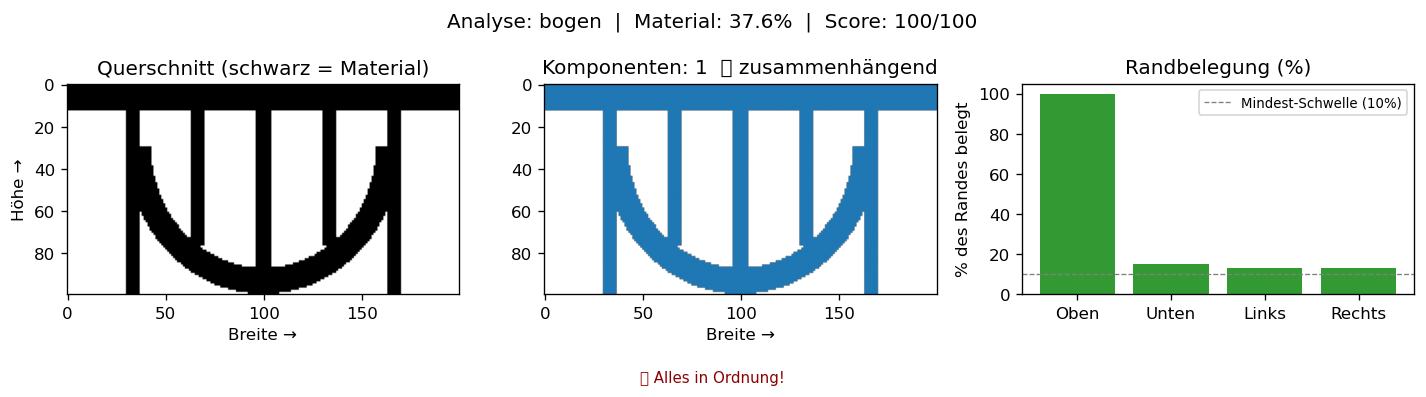
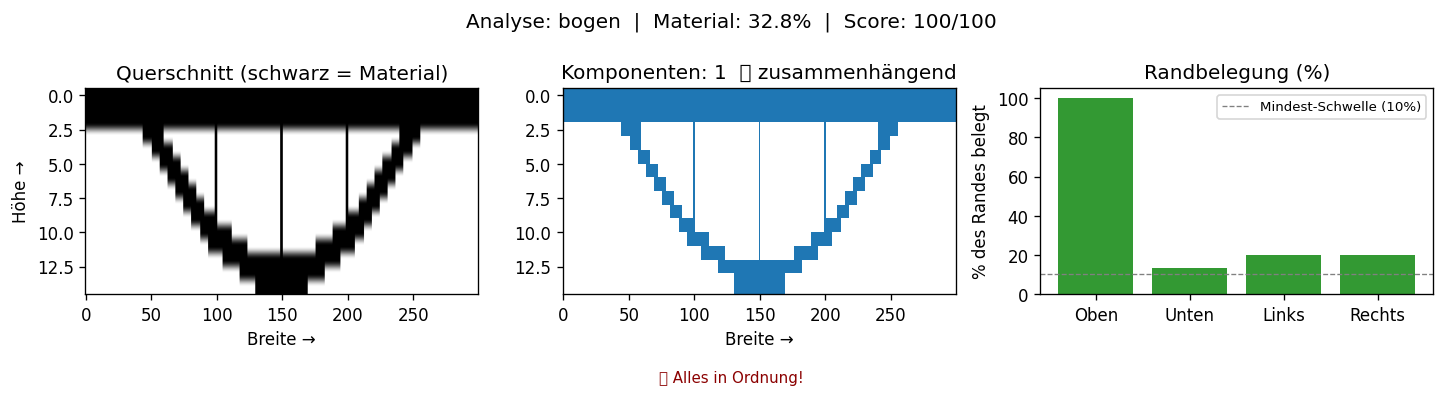
use absolute paths and adjust cross-section dimensions to match assignment

diff --git a/project_2/experimenting/generate_svgs.py b/project_2/experimenting/generate_svgs.py
@@ -15,17 +15,17 @@ import numpy as np
 import os
 
 # === Brückenparameter (müssen mit Simulation übereinstimmen) ===
-B = 40.0    # Breite des Querschnitts [mm]
-H = 20.0    # Höhe des Querschnitts [mm]
-L = 200.0   # Länge der Brücke [mm]
+L = 50.0    # Breite des Querschnitts [mm]
+H = 15.0    # Höhe des Querschnitts [mm]
+L = 300.0   # Länge der Brücke [mm]
 
 # === SVG Auflösung ===
-SVG_W = 400   # Pixel
-SVG_H = 200   # Pixel
-scale_x = SVG_W / B
+SVG_W = 300   # Pixel
+SVG_H = 15   # Pixel # hier die werte auf die im arbeitsauftrag geändert
+scale_x = SVG_W / L # geändert von B zu L 
 scale_y = SVG_H / H
 
-OUTPUT_DIR = "bridge_svgs"
+OUTPUT_DIR = os.path.join(os.path.dirname(os.path.abspath(__file__)), "bridge_svgs") # change to fit curent directory of this .py file
 os.makedirs(OUTPUT_DIR, exist_ok=True)
 
 
@@ -35,7 +35,7 @@ def svg_header(name):
         f'width="{SVG_W}" height="{SVG_H}" '
         f'viewBox="0 0 {SVG_W} {SVG_H}">\n'
         f'  <!-- {name} -->\n'
-        f'  <!-- B={B}mm H={H}mm L={L}mm -->\n'
+        f'  <!-- B={L}mm H={H}mm L={L}mm -->\n'
         f'  <rect width="{SVG_W}" height="{SVG_H}" fill="white"/>\n'
     )
 
@@ -67,7 +67,7 @@ def circle_fill(cx_mm, cy_mm, r_mm, color="white"):
 
 
 def material_ratio(filled_area_mm2):
-    total = B * H
+    total = L * H
     return filled_area_mm2 / total
 
 
@@ -76,9 +76,9 @@ def material_ratio(filled_area_mm2):
 # ============================================================
 def gen_solid():
     name = "vollrechteck"
-    area = B * H
+    area = L * H
     svg = svg_header("Vollrechteck")
-    svg += rect(0, 0, B, H)
+    svg += rect(0, 0, L, H)
     svg += svg_footer()
     with open(f"{OUTPUT_DIR}/{name}.svg", "w") as f:
         f.write(svg)
@@ -93,14 +93,14 @@ def gen_i_beam(flange_h=3.0, web_t=4.0):
     fh = flange_h
     wt = web_t
     wh = H - 2 * fh
-    wx = (B - wt) / 2
+    wx = (L - wt) / 2
 
-    area = 2 * (B * fh) + wt * wh
+    area = 2 * (L * fh) + wt * wh
 
     svg = svg_header("I-Traeger")
-    svg += rect(0, 0, B, fh)               # oberer Flansch
+    svg += rect(0, 0, L, fh)               # oberer Flansch
     svg += rect(wx, fh, wt, wh)            # Steg
-    svg += rect(0, H - fh, B, fh)         # unterer Flansch
+    svg += rect(0, H - fh, L, fh)         # unterer Flansch
     svg += svg_footer()
     with open(f"{OUTPUT_DIR}/{name}.svg", "w") as f:
         f.write(svg)
@@ -113,12 +113,12 @@ def gen_i_beam(flange_h=3.0, web_t=4.0):
 def gen_hollow_rect(t_wall=2.5):
     name = "hohlrechteck"
     t = t_wall
-    inner_w = B - 2 * t
+    inner_w = L - 2 * t
     inner_h = H - 2 * t
-    area = B * H - inner_w * inner_h
+    area = L * H - inner_w * inner_h
 
     svg = svg_header("Hohlrechteck")
-    svg += rect(0, 0, B, H)
+    svg += rect(0, 0, L, H)
     svg += rect(t, t, inner_w, inner_h, color="white")
     svg += svg_footer()
     with open(f"{OUTPUT_DIR}/{name}.svg", "w") as f:
@@ -135,18 +135,18 @@ def gen_grid(n_ribs=4, rib_t=2.0, flange_h=2.5):
     wh = H - 2 * fh
     rt = rib_t
 
-    area = 2 * (B * fh)
+    area = 2 * (L * fh)
     # Seitenwände
     area += 2 * (rt * wh)
     # Innere Rippen
-    inner_spacing = (B - 2 * rt) / (n_ribs + 1)
+    inner_spacing = (L - 2 * rt) / (n_ribs + 1)
     area += n_ribs * (rt * wh)
 
     svg = svg_header("Gitter mit Rippen")
-    svg += rect(0, 0, B, fh)           # oben
-    svg += rect(0, H - fh, B, fh)     # unten
+    svg += rect(0, 0, L, fh)           # oben
+    svg += rect(0, H - fh, L, fh)     # unten
     svg += rect(0, fh, rt, wh)        # links
-    svg += rect(B - rt, fh, rt, wh)   # rechts
+    svg += rect(L - rt, fh, rt, wh)   # rechts
     for i in range(n_ribs):
         x = rt + (i + 1) * inner_spacing - rt / 2
         svg += rect(x, fh, rt, wh)
@@ -164,13 +164,13 @@ def gen_double_t(flange_h=4.0, web_t=8.0):
     fh = flange_h
     wt = web_t
     wh = H - 2 * fh
-    wx = (B - wt) / 2
-    area = 2 * (B * fh) + wt * wh
+    wx = (L - wt) / 2
+    area = 2 * (L * fh) + wt * wh
 
     svg = svg_header("Doppel-T-Traeger")
-    svg += rect(0, 0, B, fh)
+    svg += rect(0, 0, L, fh)
     svg += rect(wx, fh, wt, wh)
-    svg += rect(0, H - fh, B, fh)
+    svg += rect(0, H - fh, L, fh)
     svg += svg_footer()
     with open(f"{OUTPUT_DIR}/{name}.svg", "w") as f:
         f.write(svg)
@@ -185,11 +185,11 @@ def gen_honeycomb(n_cells=4, wall_t=2.0, flange_h=2.5):
     fh = flange_h
     wh = H - 2 * fh
     n = n_cells
-    cell_w = (B) / n
+    cell_w = (L) / n
 
     svg = svg_header("Honigwaben-Gitter")
-    svg += rect(0, 0, B, fh)
-    svg += rect(0, H - fh, B, fh)
+    svg += rect(0, 0, L, fh)
+    svg += rect(0, H - fh, L, fh)
 
     # Diagonale Streben (X-Muster in jedem Zell-Abschnitt)
     for i in range(n):
@@ -207,7 +207,7 @@ def gen_honeycomb(n_cells=4, wall_t=2.0, flange_h=2.5):
     with open(f"{OUTPUT_DIR}/{name}.svg", "w") as f:
         f.write(svg)
 
-    area_approx = 2 * (B * fh) + n * 2 * (wall_t * np.sqrt((B/n)**2 + wh**2))
+    area_approx = 2 * (L * fh) + n * 2 * (wall_t * np.sqrt((L/n)**2 + wh**2))
     print(f"[{name}] Materialanteil (ca.): {material_ratio(area_approx)*100:.1f}%  Fläche: {area_approx:.1f} mm²")
 
 
@@ -222,15 +222,15 @@ def gen_arch(flange_h=2.5, arch_t=2.5, n_hangers=5):
     n_pts = 40
     angle = np.linspace(np.pi, 0, n_pts)
     # Bogen sitzt unter der Brücke, Radius so dass er exakt H hoch ist
-    r = (B**2 / 8 + H**2 / 2) / (2 * (H - fh))  # Kreisbogen-Radius
-    cx = B / 2
+    r = (L**2 / 8 + H**2 / 2) / (2 * (H - fh))  # Kreisbogen-Radius
+    cx = L / 2
     cy_arc = H - fh - r  # Mittelpunkt des Kreises (kann negativ sein = über dem Querschnitt)
 
     # Oberer Flansch
-    area = B * fh
+    area = L * fh
 
     svg = svg_header("Bogenprofil")
-    svg += rect(0, 0, B, fh)  # oberer Flansch
+    svg += rect(0, 0, L, fh)  # oberer Flansch
 
     # Unterer Bogen als dicke Linie approximiert
     arc_inner = []
@@ -247,13 +247,13 @@ def gen_arch(flange_h=2.5, arch_t=2.5, n_hangers=5):
 
     all_pts = arc_inner + arc_outer
     # Clip to [0, B] x [0, H]
-    all_pts_clipped = [(max(0, min(B, x)), max(0, min(H, y))) for x, y in all_pts]
+    all_pts_clipped = [(max(0, min(L, x)), max(0, min(H, y))) for x, y in all_pts]
     svg += poly(all_pts_clipped)
 
     # Hänger (vertical bars)
     hanger_w = 1.5
     for i in range(n_hangers):
-        x = B / (n_hangers + 1) * (i + 1)
+        x = L / (n_hangers + 1) * (i + 1)
         # y-Koordinate des Bogens an Position x
         dx = x - cx
         if abs(dx) <= r:
@@ -274,7 +274,7 @@ def gen_arch(flange_h=2.5, arch_t=2.5, n_hangers=5):
 # Alle generieren
 # ============================================================
 if __name__ == "__main__":
-    print(f"Brückenparameter: B={B}mm, H={H}mm, L={L}mm")
+    print(f"Brückenparameter: B={L}mm, H={H}mm, L={L}mm")
     print(f"Grenzlast: 3kg = {3*9.81:.1f}N, max. Durchbiegung: 3mm")
     print(f"SVG Auflösung: {SVG_W}x{SVG_H}px\n")
     print("Generiere Profile...")

diff --git a/project_2/experimenting/analyze_svg.py b/project_2/experimenting/analyze_svg.py
@@ -17,8 +17,8 @@ import sys
 import os
 
 # Auflösung für die Rasterisierung
-RASTER_W = 200
-RASTER_H = 100
+RASTER_W = 300
+RASTER_H = 15
 THRESHOLD = 128  # Grauwertschwelle: < 128 = Material (dunkel)
 
 
@@ -284,7 +284,8 @@ def visualize_analysis(svg_path: str, save_path: str = None):
 
 # ============================================================
 if __name__ == "__main__":
-    svg_dir = sys.argv[1] if len(sys.argv) > 1 else "bridge_svgs"
+    default_svg_dir = os.path.join(os.path.dirname(os.path.abspath(__file__)), "bridge_svgs")
+    svg_dir = sys.argv[1] if len(sys.argv) > 1 else default_svg_dir
 
     print("SVG Brücken-Analyse")
     print(f"Analysiere alle SVGs in: {svg_dir}")

diff --git a/project_2/experimenting/simulate_svg.py b/project_2/experimenting/simulate_svg.py
@@ -29,8 +29,8 @@ def svg_to_mask(svg_path, nx, ny):
 
 
 def run(svg_path, nx=200, ny=100, plots=True, save_path=None):
-    L = 200e-3
-    H = 20e-3
+    L = 300e-3
+    H = 15e-3
     hx = L / nx
     hy = H / ny
 
@@ -199,8 +199,9 @@ def run(svg_path, nx=200, ny=100, plots=True, save_path=None):
 
 
 if __name__ == "__main__":
-    svg_dir = sys.argv[1] if len(sys.argv) > 1 else "bridge_svgs"
-    nx, ny  = 60, 30
+    default_svg_dir = os.path.join(os.path.dirname(os.path.abspath(__file__)), "bridge_svgs")
+    svg_dir = sys.argv[1] if len(sys.argv) > 1 else default_svg_dir
+    nx, ny  = 300, 15
 
     files = sorted(glob.glob(os.path.join(svg_dir, "*.svg")))
     if not files:
